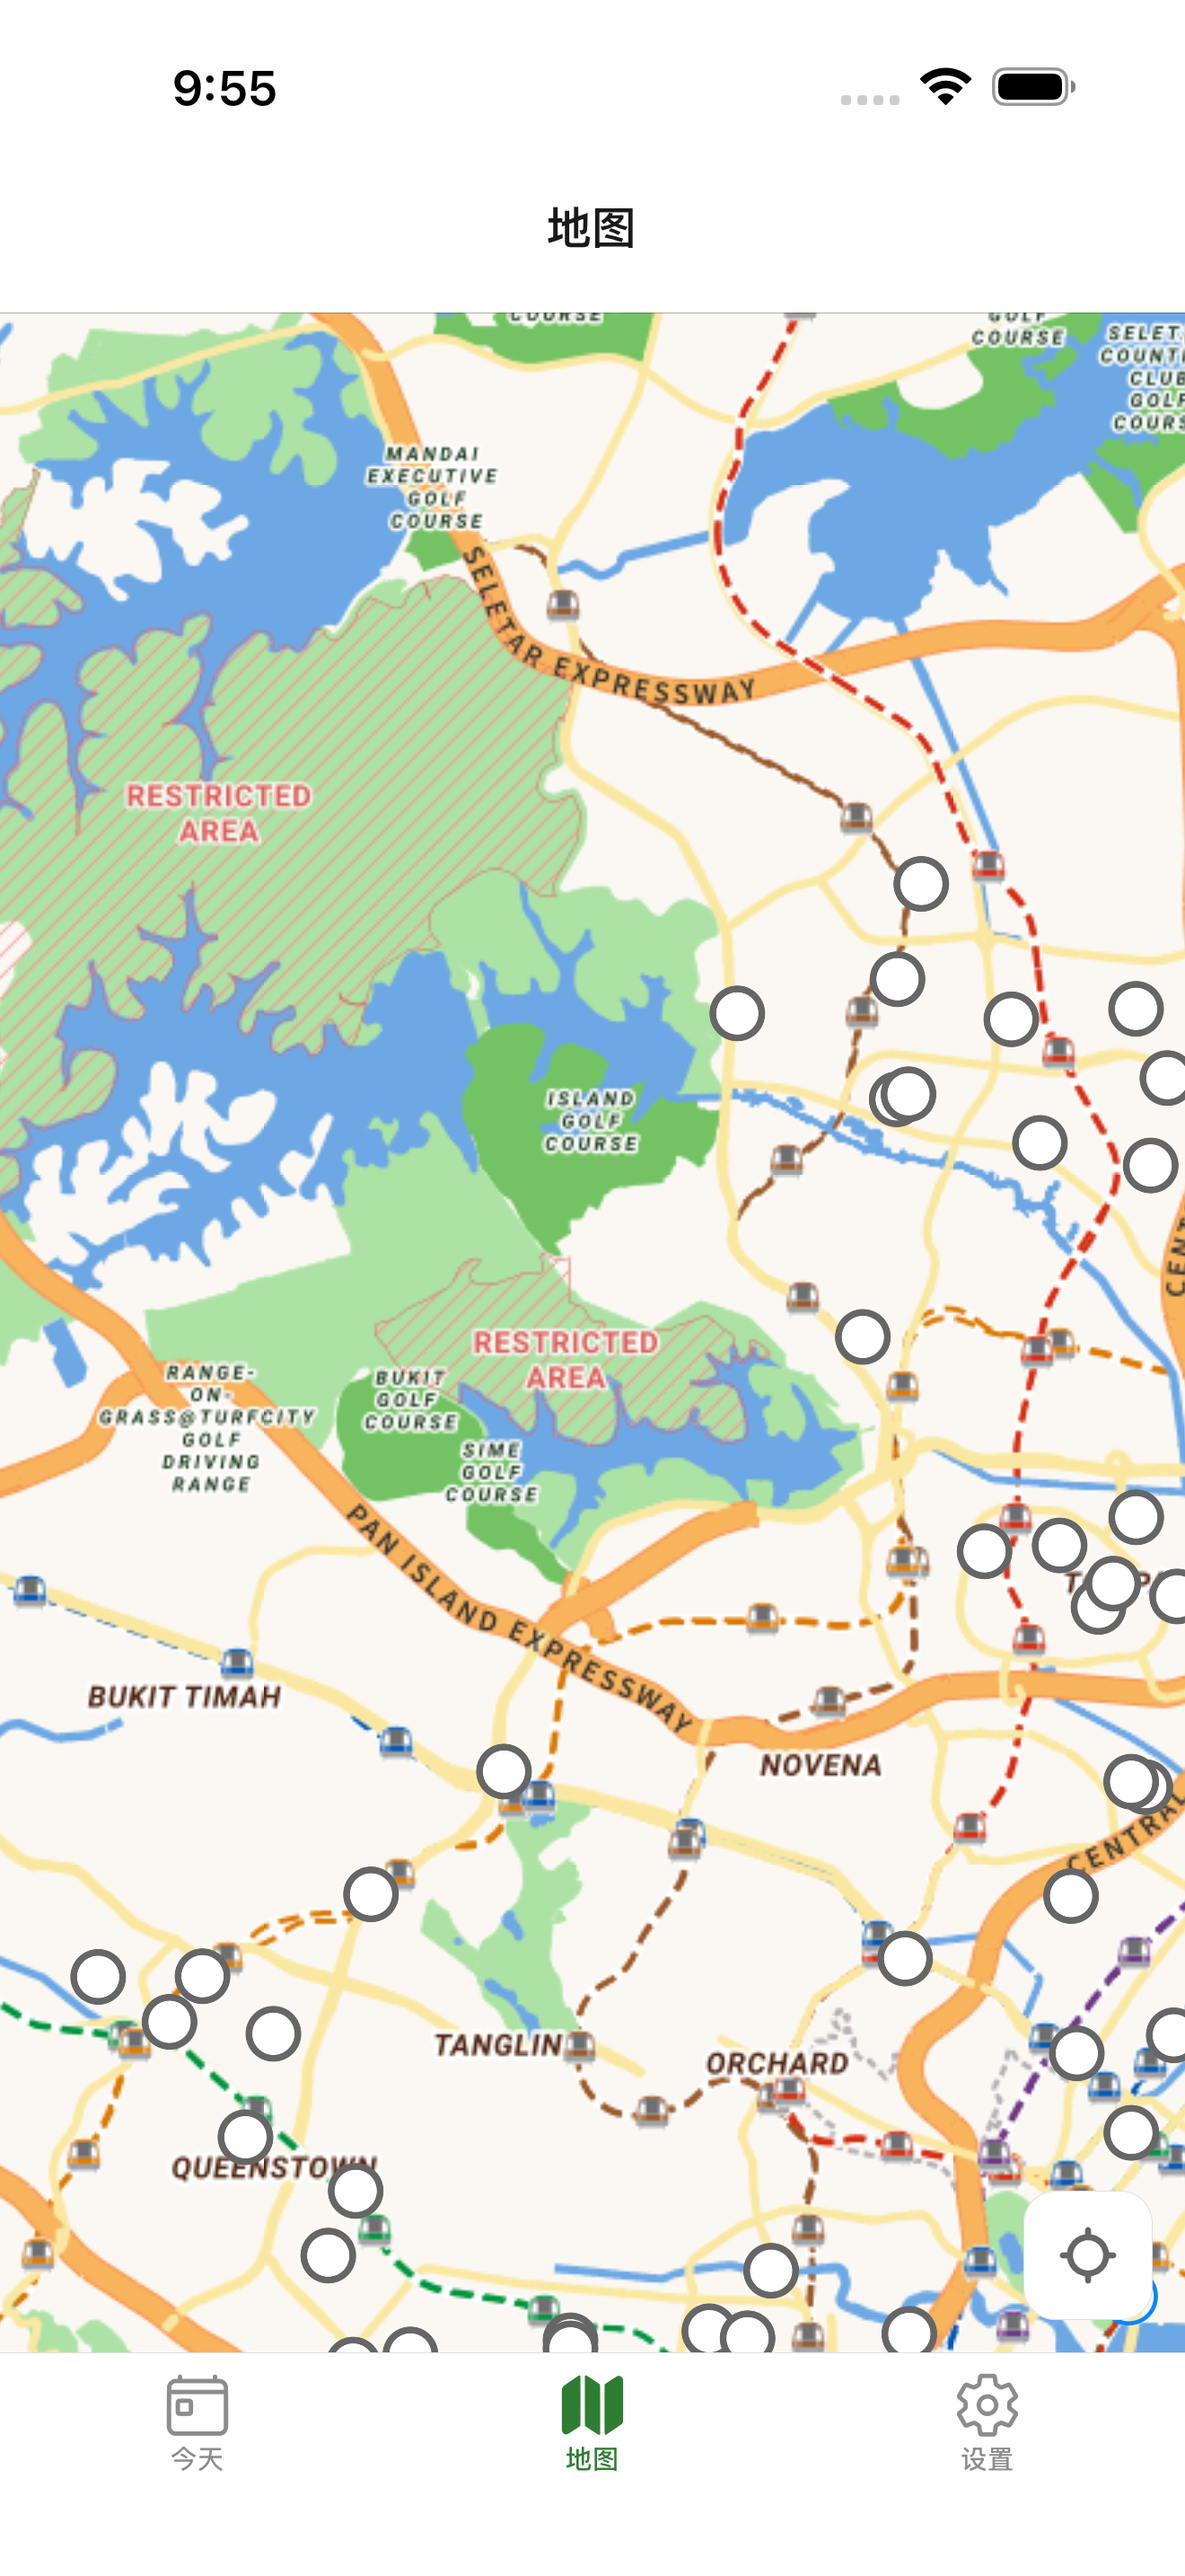
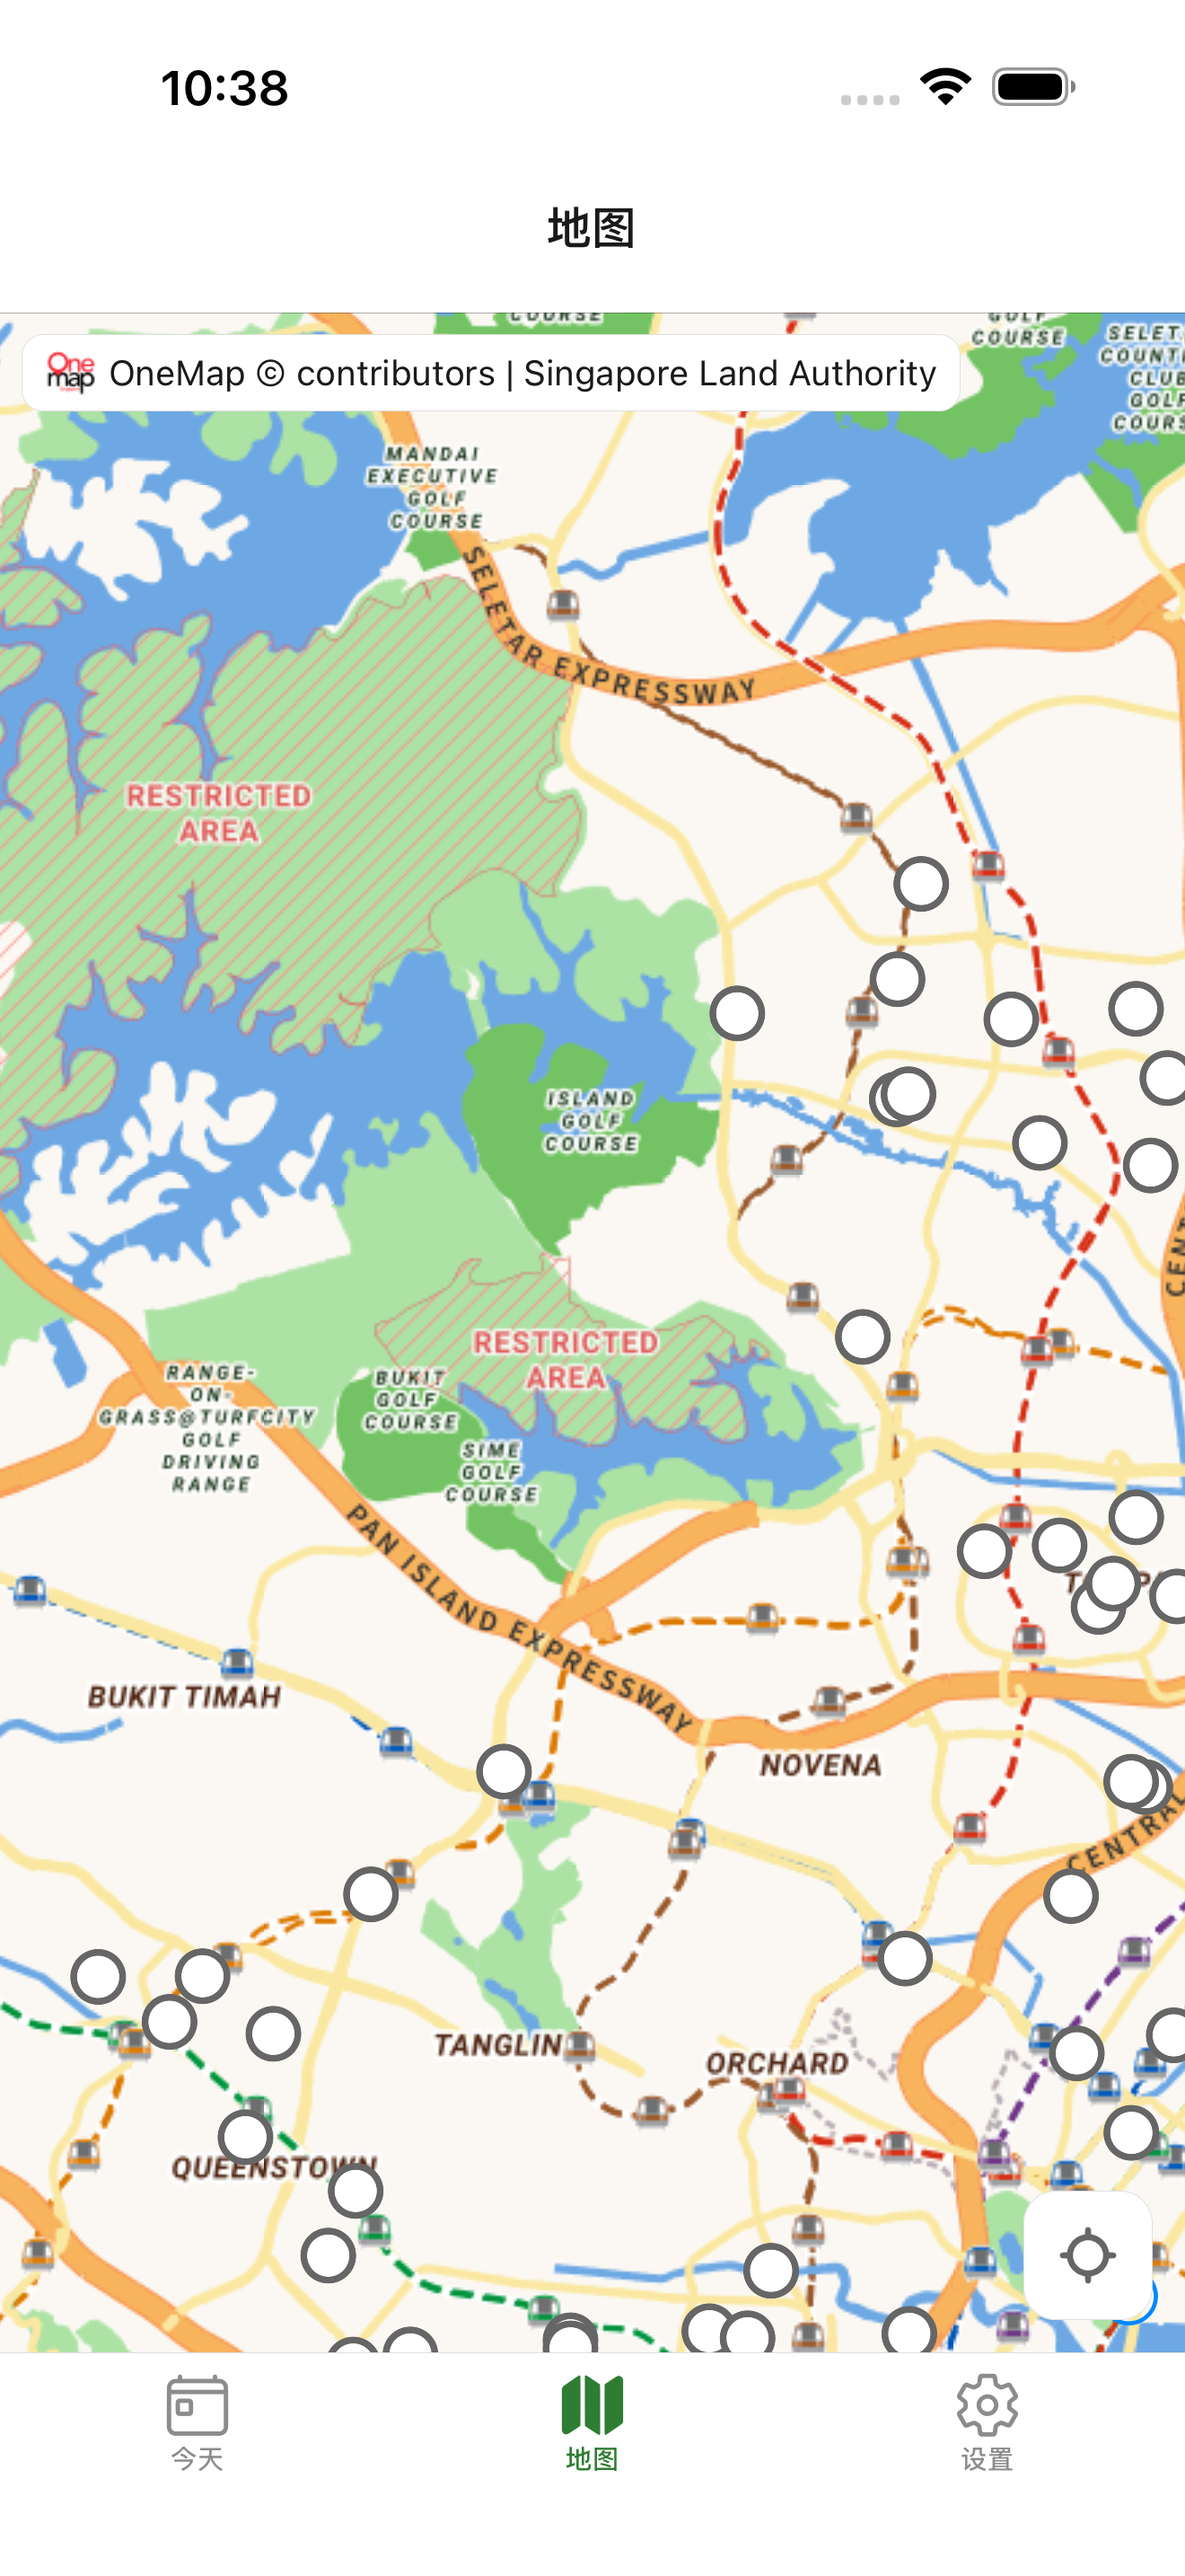
Add Android store screenshots and source attribution

Changed region(s): [[0.0311, 0.1241, 0.8076, 0.1862], [0.1553, 0.031, 0.2485, 0.0621]]

diff --git a/components/MarketMap.tsx b/components/MarketMap.tsx
@@ -1,5 +1,6 @@
 import { useEffect, useMemo, useRef, useState } from 'react';
 import { AppState, Linking, Pressable, StyleSheet, View } from 'react-native';
+import { Image } from 'expo-image';
 import {
   GeoJSONSource,
   Layer,
@@ -10,7 +11,7 @@ import {
 import Animated, { FadeIn, FadeOut } from 'react-native-reanimated';
 import ConstrainedCamera, { type ConstrainedCameraRef } from './ConstrainedCamera';
 import MapCallout from './MapCallout';
-import { Icon } from './ui';
+import { Icon, Text } from './ui';
 import type { Market } from '../lib/core/market-logic';
 import { SG_BOUNDS, type Center } from '../lib/core/map-bounds';
 import { MAX_MAP_ZOOM, MIN_MAP_ZOOM, type MapView } from '../lib/core/map-view';
@@ -242,6 +243,21 @@ export default function MarketMap({ markets }: { markets: Market[] }) {
         {!!coords && <UserLocation />}
       </Map>
 
+      <View
+        pointerEvents="none"
+        style={[
+          styles.attribution,
+          { backgroundColor: theme.colors.surface, borderColor: theme.colors.border },
+        ]}
+      >
+        <Image
+          source={require('../assets/attribution/onemap-logo.png')}
+          style={styles.attributionLogo}
+          accessible={false}
+        />
+        <Text variant="footnote">OneMap © contributors | Singapore Land Authority</Text>
+      </View>
+
       {!selected && (
         <Animated.View entering={FadeIn} exiting={FadeOut} style={styles.controlWrap}>
           <Pressable
@@ -277,6 +293,20 @@ export default function MarketMap({ markets }: { markets: Market[] }) {
 const styles = StyleSheet.create({
   container: { flex: 1 },
   map: { flex: 1 },
+  attribution: {
+    position: 'absolute',
+    top: space.sm,
+    left: space.sm,
+    maxWidth: '90%',
+    flexDirection: 'row',
+    alignItems: 'center',
+    gap: space.xs,
+    paddingHorizontal: space.sm,
+    paddingVertical: space.xs,
+    borderRadius: radius.pill,
+    borderWidth: StyleSheet.hairlineWidth,
+  },
+  attributionLogo: { width: 20, height: 20 },
   // Not the ui/Fab: a map control, squarer and on a surface fill, and placed by the animated
   // wrapper it fades in with rather than by itself.
   controlWrap: { position: 'absolute', right: space.md, bottom: space.md },

diff --git a/lib/i18n.ts b/lib/i18n.ts
@@ -23,7 +23,12 @@ const en = {
   otherWorks: REASON_WORDS.en.other_works.label,
   marketStalls: 'market stalls',
   foodStalls: 'food stalls',
-  dataSourceLink: 'NEA',
+  dataSourceLink: 'NEA / data.gov.sg',
+  dataLicence: 'Closure data licence',
+  mapSource: 'Map data',
+  mapSourceLink: 'OneMap / Singapore Land Authority',
+  mapLicence: 'Map data licence',
+  openDataLicence: 'Singapore Open Data Licence 1.0',
   lastUpdated: 'Last updated:',
   addMarkets: 'Add Markets',
   chooseMarkets: 'Choose Your Markets',
@@ -66,7 +71,7 @@ const en = {
   appleMaps: 'Apple Maps',
   googleMaps: 'Google Maps',
   dataSection: 'Data',
-  dataSource: 'Data source',
+  dataSource: 'Closure data',
   refreshNow: 'Refresh now',
   myMarkets: 'My Markets',
   removeAll: 'Remove all markets',
@@ -106,7 +111,12 @@ const zh: Record<keyof typeof en, string> = {
   otherWorks: REASON_WORDS.zh.other_works.label,
   marketStalls: '个巴刹摊位',
   foodStalls: '个熟食摊位',
-  dataSourceLink: '国家环境局 (NEA)',
+  dataSourceLink: '国家环境局 / data.gov.sg',
+  dataLicence: '休市数据许可',
+  mapSource: '地图数据',
+  mapSourceLink: 'OneMap / 新加坡土地管理局',
+  mapLicence: '地图数据许可',
+  openDataLicence: '新加坡开放数据许可 1.0',
   lastUpdated: '最后更新：',
   addMarkets: '添加巴刹',
   chooseMarkets: '选择您的巴刹',
@@ -147,7 +157,7 @@ const zh: Record<keyof typeof en, string> = {
   appleMaps: 'Apple 地图',
   googleMaps: 'Google 地图',
   dataSection: '数据',
-  dataSource: '数据来源',
+  dataSource: '休市数据',
   refreshNow: '立即更新',
   myMarkets: '我的巴刹',
   removeAll: '移除所有巴刹',

diff --git a/app/(tabs)/(settings)/index.tsx b/app/(tabs)/(settings)/index.tsx
@@ -3,7 +3,14 @@ import { ActivityIndicator, Alert, Linking, Platform, ScrollView, StyleSheet, Sw
 import Constants from 'expo-constants';
 import SettingsSection from '../../../components/SettingsSection';
 import { Icon, Row } from '../../../components/ui';
-import { DATA_SOURCE_URL, FEEDBACK_URL, REPO_URL } from '../../../lib/constants';
+import {
+  DATA_LICENCE_URL,
+  DATA_SOURCE_URL,
+  FEEDBACK_URL,
+  MAP_LICENCE_URL,
+  MAP_SOURCE_URL,
+  REPO_URL,
+} from '../../../lib/constants';
 import { MAX_FAVORITES } from '../../../lib/core/favorites';
 import { feedbackUrl, versionLabel, type BuildInfo } from '../../../lib/core/version-info';
 import { formatDate, formatDateTime } from '../../../lib/date';
@@ -157,6 +164,24 @@ export default function SettingsScreen() {
           detail={t('dataSourceLink')}
           accessory={external}
           onPress={() => void Linking.openURL(DATA_SOURCE_URL)}
+        />
+        <Row
+          label={t('dataLicence')}
+          detail={t('openDataLicence')}
+          accessory={external}
+          onPress={() => void Linking.openURL(DATA_LICENCE_URL)}
+        />
+        <Row
+          label={t('mapSource')}
+          detail={t('mapSourceLink')}
+          accessory={external}
+          onPress={() => void Linking.openURL(MAP_SOURCE_URL)}
+        />
+        <Row
+          label={t('mapLicence')}
+          detail={t('openDataLicence')}
+          accessory={external}
+          onPress={() => void Linking.openURL(MAP_LICENCE_URL)}
           last
         />
       </SettingsSection>

diff --git a/lib/constants.ts b/lib/constants.ts
@@ -2,3 +2,6 @@ export const REPO_URL = 'https://github.com/sfdye/open-anot';
 export const FEEDBACK_URL = 'mailto:t@sfdye.com';
 export const DATA_SOURCE_URL =
   'https://data.gov.sg/datasets/d_bda4baa634dd1cc7a6c7cad5f19e2d68/view';
+export const DATA_LICENCE_URL = 'https://data.gov.sg/open-data-licence';
+export const MAP_SOURCE_URL = 'https://www.onemap.gov.sg/';
+export const MAP_LICENCE_URL = 'https://www.onemap.gov.sg/legal/opendatalicence.html';

diff --git a/AGENTS.md b/AGENTS.md
@@ -50,7 +50,7 @@ Those two are the whole of CI (`.github/workflows/test.yml`); there is no lint s
 
 - `npm run metadata:ios` / `metadata:android` — push metadata + screenshots (no binary).
 - `npm run metadata:pull:ios` / `metadata:pull:android` — re-sync after dashboard edits; skip this and a later push overwrites your manual changes.
-- iOS metadata lives in `fastlane/metadata/{en-US,zh-Hans}/`; Android in `fastlane/metadata/android/{en-US,zh-CN}/` — note the different locale codes for Simplified Chinese.
+- iOS metadata lives in `fastlane/metadata/{en-US,zh-Hans}/`; Android's default listing is `fastlane/metadata/android/en-SG/`, with `en-US/` and `zh-CN/` localizations.
 - Screenshots are captured via Maestro (`npm run screenshots:ios` / `screenshots:android`), not fastlane's `snapshot`/`screengrab` — the repo has no XCTest or UiAutomator. The flow in `e2e/screenshots/` reuses `testID`s from the e2e flows. After capture, copy PNGs into `fastlane/screenshots/<locale>/` (deliver) and `fastlane/metadata/android/<locale>/images/phoneScreenshots/` (supply).
 - Play feature graphic and 512px icon are derived from `brand/icon-master-1024.png` (Pillow), not hand-drawn — regenerate if the mark changes.
 - Credentials (gitignored): ASC API key `.p8` in `~/.appstoreconnect/private_keys/`; Play service account JSON at `fastlane/play-service-account.json`. Reuse the Play key from EAS Submit credentials.
@@ -105,6 +105,7 @@ Tapping the address opens Apple Maps or Google Maps; the setting is iOS-only (An
 
 ### Map (MapLibre + OneMap)
 
+- OneMap's terms require its logo and attribution on the map plus licence links in Settings; do not remove either.
 - Tiles end at `SG_BOUNDS` (`lib/core/map-bounds.ts`). The raster source's `bounds` only stops requests, so OneMap still serves non-PNG boundary tiles that MapLibre logs as errors — silenced in dev by `configureMapLogging()` (`lib/maplibre.ts`), called at module scope from `MarketMap` to keep MapLibre out of cold start.
 - `ConstrainedCamera` keeps empty background unreachable: `maxBounds` gets `SG_BOUNDS` inset by half the viewport span, and `constrain()` eases the centre back after an outgrowing zoom-out. A reported centre outside `SG_BOUNDS` is startup garbage — ignore it, don't clamp it. Keep its state in that component; a settle in `MarketMap` would re-serialise the tile style and all features.
 - Initial view priority: saved `mapView` → user's current location (first visit, via `awaitingFix`) → Singapore overview.
